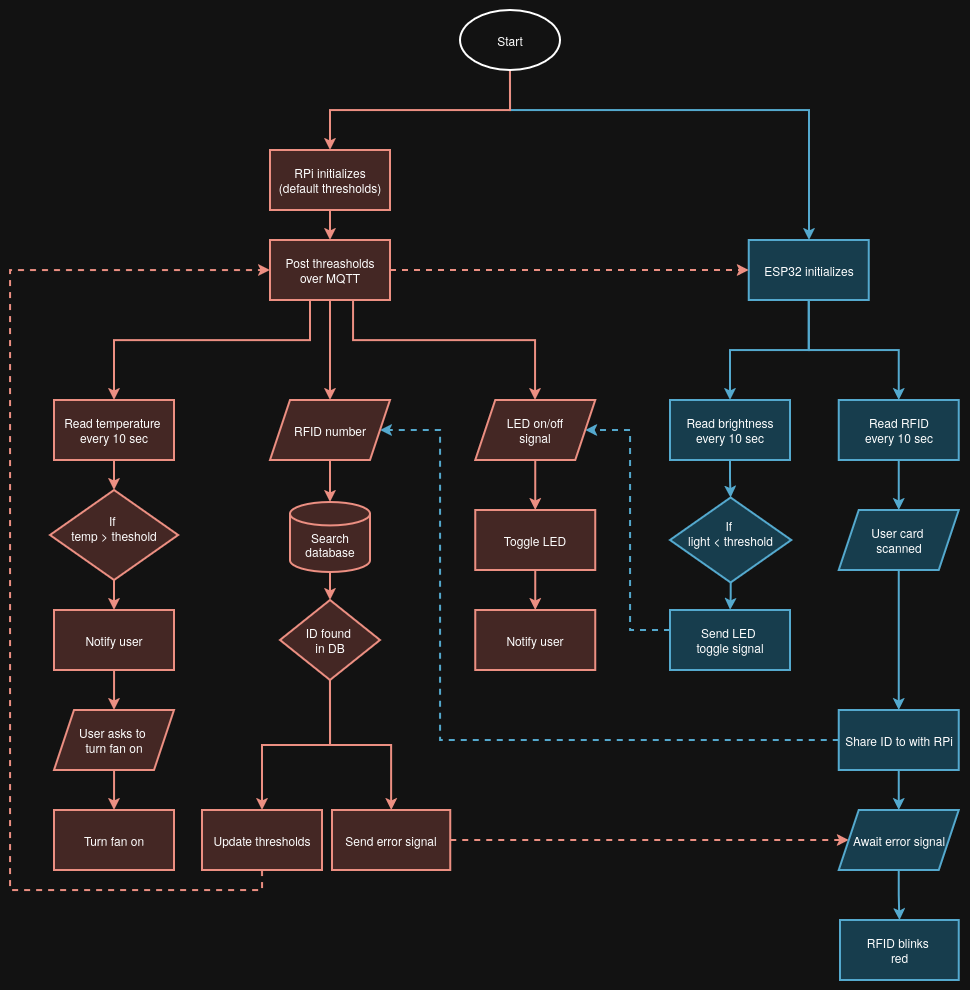
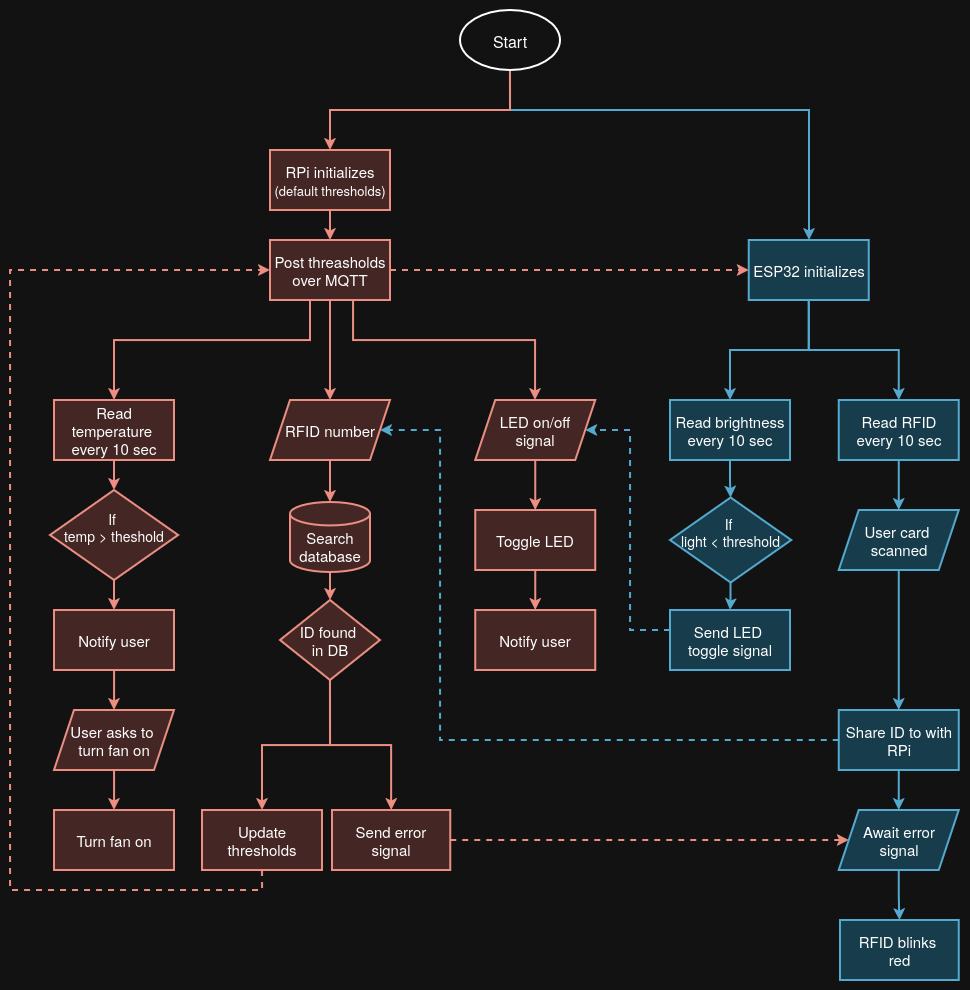
Fixed some variable names

diff --git a/src/components/IoTProject.jsx b/src/components/IoTProject.jsx
@@ -1,7 +1,7 @@
 import iotDiagram1 from '../assets/iotDiagram1.png'
 import iotDiagram2 from '../assets/iotDiagram2.png'
-import iotFlowchart_Basic from '../assets/iotFlowchartBasic2.png'
-import iotFlowchart_Colored from '../assets/iotFlowchartColoured2.png'
+import iotFlowchart_Basic from '../assets/iotFlowchartBasic.png'
+import iotFlowchart_Colored from '../assets/iotFlowchartColoured.png'
 import iotDashboard from '../assets/iotDashboard.png'
 import { FaMicrochip, FaLightbulb, FaFan, FaIdCard } from 'react-icons/fa'
 import { MdSensors, MdMemory } from 'react-icons/md'

diff --git a/src/styles/Containers.css b/src/styles/Containers.css
@@ -2,7 +2,7 @@
   HOME PAGE CONTAINERS
 ------------------------*/
 .parallax {
-    background-image: url("/src/assets/gradient3.png");
+    background-image: url("/src/assets/backgroundGradient.png");
 
   background-attachment: fixed;
   background-position: center;
